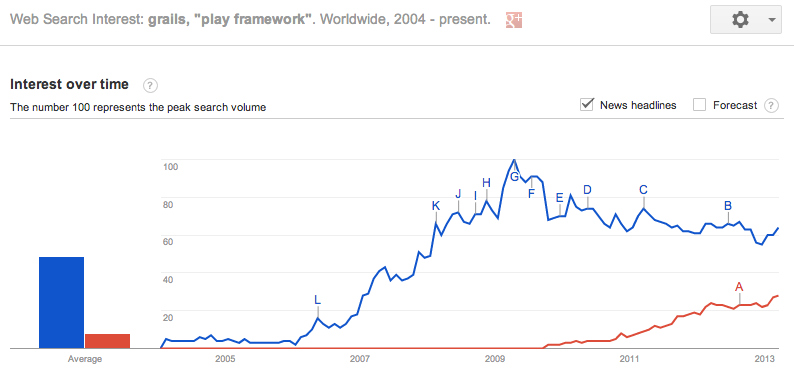
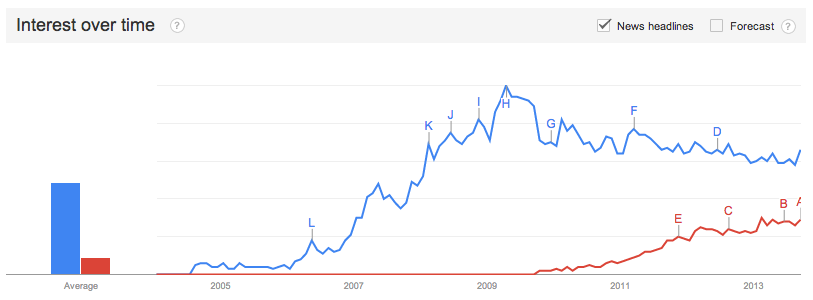
Updated pretty graphs and statistics for JavaOne 2013.

diff --git a/preso/index.html b/preso/index.html
@@ -733,13 +733,13 @@
     <script>
         $(function () {
             var selectorId = '#grails-data';
-            getSource("89cb6acef9133f295a340fd15e031833e80ffa02", function (content, url) {
+            getSource("63c182b3298713b703d552f95b69633135d1cac6", function (content, url) {
                 $(selectorId).html(hljs.highlight("java", content).value);
                 linkToFile(selectorId, 'grails2');
             })
         })
     </script>
-    <pre><code id="grails-data"></code></pre>
+    <pre style="font-size: .45em; width: 101%"><code id="grails-data"></code></pre>
 </section>
 <section>
     <h3>Demo Data - Play</h3>
@@ -1014,13 +1014,13 @@
 
                 var data = google.visualization.arrayToDataTable([
                     ['Jobs', 'Grails', 'Play Framework', 'Spring MVC'],
-                    ['Dice', 209, 9, 552],
-                    ['Monster', 67, 11, 188],
-                    ['Indeed', 951, 58, 1388]
+                    ['Dice', 194, 38, 539],
+                    ['Monster', 54, 18, 209],
+                    ['Indeed', 851, 115, 1499]
                 ]);
 
                 var chart = new google.visualization.BarChart(document.getElementById('jobs_chart_div'));
-                chart.draw(data, {width:900, height:500, title: 'March 19, 2013'});
+                chart.draw(data, {width:900, height:500, title: 'September 22, 2013'});
             }
         </script>
         <div id="jobs_chart_div" class="chart" style="width: 900px; height: 500px;"></div>
@@ -1034,13 +1034,13 @@
 
                 var data = google.visualization.arrayToDataTable([
                     ['Skill', '# People'],
-                    ['Grails', 14051],
-                    ['Play Framework', 3397],
-                    ['Spring MVC', 13685]
+                    ['Grails', 17303],
+                    ['Play Framework', 5254],
+                    ['Spring MVC', 17973]
                 ]);
 
                 var chart = new google.visualization.BarChart(document.getElementById('linkedin_chart_div'));
-                chart.draw(data, {width:900, height:500, title: 'March 19, 2013'});
+                chart.draw(data, {width:900, height:500, title: 'September 22, 2013'});
             }
         </script>
         <div id="linkedin_chart_div" class="chart" style="width: 900px; height: 500px;"></div>
@@ -1050,7 +1050,7 @@
     </section>
     <section>
         <h2>Google Trends</h2>
-        <img src="assets/images/google-trends.png" style="width: 794px; height: 370px">
+        <img src="assets/images/google-trends.png" style="width: 813px; height: 300px">
         <div class="legend">
             <span class="box blue"></span> Grails
             <span class="box red"></span> Play
@@ -1071,31 +1071,17 @@
             function drawMailingListChart() {
                 new google.visualization.BarChart(document.getElementById('mailinglist_messages_chart_div')).draw(google.visualization.arrayToDataTable([
                     ['Messages', 'Grails', 'Play Framework'],
-                    ['March', 1503, 3365],
-                    ['April', 1377, 2884],
-                    ['May', 1299, 2760]
-                ]), {width:900, height:500, title: 'June 2012'}
+                    ['March', 931, 1443],
+                    ['April', 863, 1448],
+                    ['May', 1005, 1177],
+                    ['June', 766, 1049],
+                    ['July', 971, 858],
+                    ['August', 922, 1033]
+                ]), {width:900, height:500}
                 );
             }
         </script>
         <div id="mailinglist_messages_chart_div" class="chart" style="width: 900px; height: 500px;"></div>
-    </section>
-    <section>
-        <h2>User Mailing List Traffic</h2>
-        <script>
-            google.setOnLoadCallback(drawMailingListChart);
-
-            function drawMailingListChart() {
-                new google.visualization.BarChart(document.getElementById('mailinglist_messages_chart_div2')).draw(google.visualization.arrayToDataTable([
-                    ['Messages', 'Grails', 'Play Framework'],
-                    ['December', 1059, 1181],
-                    ['January', 973, 1797],
-                    ['February', 828, 1623]
-                ]), {width:900, height:500, title: 'March 2013'}
-                );
-            }
-        </script>
-        <div id="mailinglist_messages_chart_div2" class="chart" style="width: 900px; height: 500px;"></div>
     </section>
     <section>
         <h2>Books on Amazon</h2>
@@ -1105,9 +1091,9 @@
             function drawBooksChart() {
                 new google.visualization.PieChart(document.getElementById('books_chart_div')).draw(google.visualization.arrayToDataTable([
                     ['Books', 'Amazon'],
-                    ['Grails', 8],
+                    ['Grails', 11],
                     ['Play Framework', 3]
-                ]), {width:900, height:500, pieSliceText:'value', title: 'March 2013'});
+                ]), {width:900, height:500, pieSliceText:'value', title: 'September 2013'});
             }
         </script>
         <div id="books_chart_div" class="chart" style="width: 900px; height: 500px;"></div>
@@ -1120,8 +1106,8 @@
             function drawReleasesChart() {
                 new google.visualization.PieChart(document.getElementById('releases_chart_div2')).draw(google.visualization.arrayToDataTable([
                     ['2013 Releases', '2013'],
-                    ['Grails', 1],
-                    ['Play Framework', 1]
+                    ['Grails', 8],
+                    ['Play Framework', 10]
                 ]), {width:900, height:500, pieSliceText:'value'});
             }
         </script>
@@ -1150,8 +1136,8 @@
             function drawStackOverflowChart() {
                 new google.visualization.PieChart(document.getElementById('stackoverflow_chart_div')).draw(google.visualization.arrayToDataTable([
                     ['Tagged Questions', '#'],
-                    ['grails', 10710],
-                    ['playframework', 3950]
+                    ['grails', 12978],
+                    ['playframework', 5149]
                 ]), {width:900, height:500, pieSliceText:'value'});
             }
         </script>

diff --git a/preso/css/smackdown.css b/preso/css/smackdown.css
@@ -83,12 +83,11 @@ pre code {
 }
 
 .reveal .legend {
-    background: white;
     font-size: .4em;
     color: black;
     width: 200px;
     position: absolute;
-    top: 175px;
+    top: 170px;
     right: 80px;
 }
 
